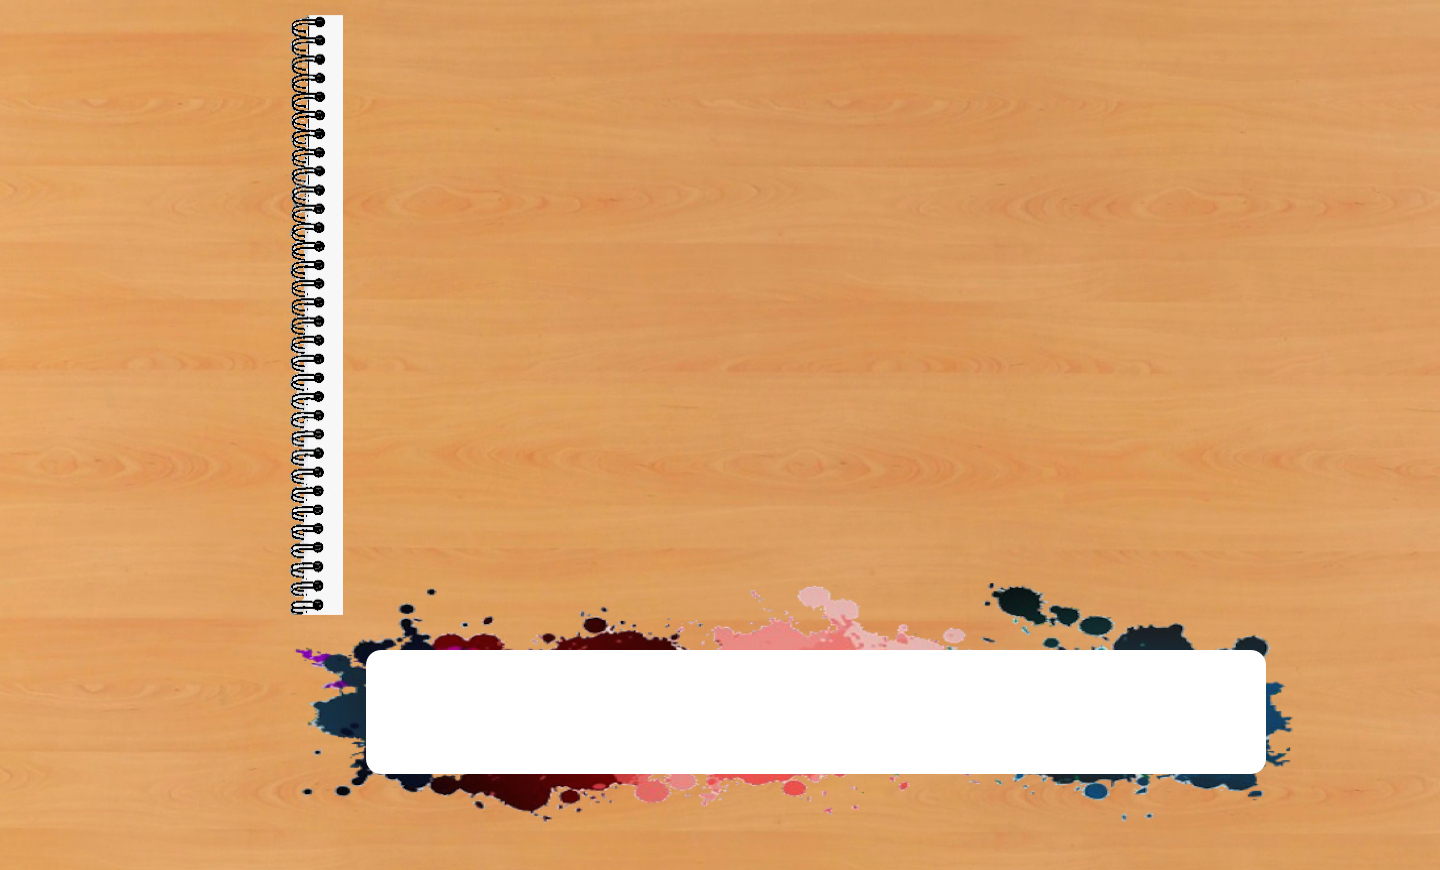
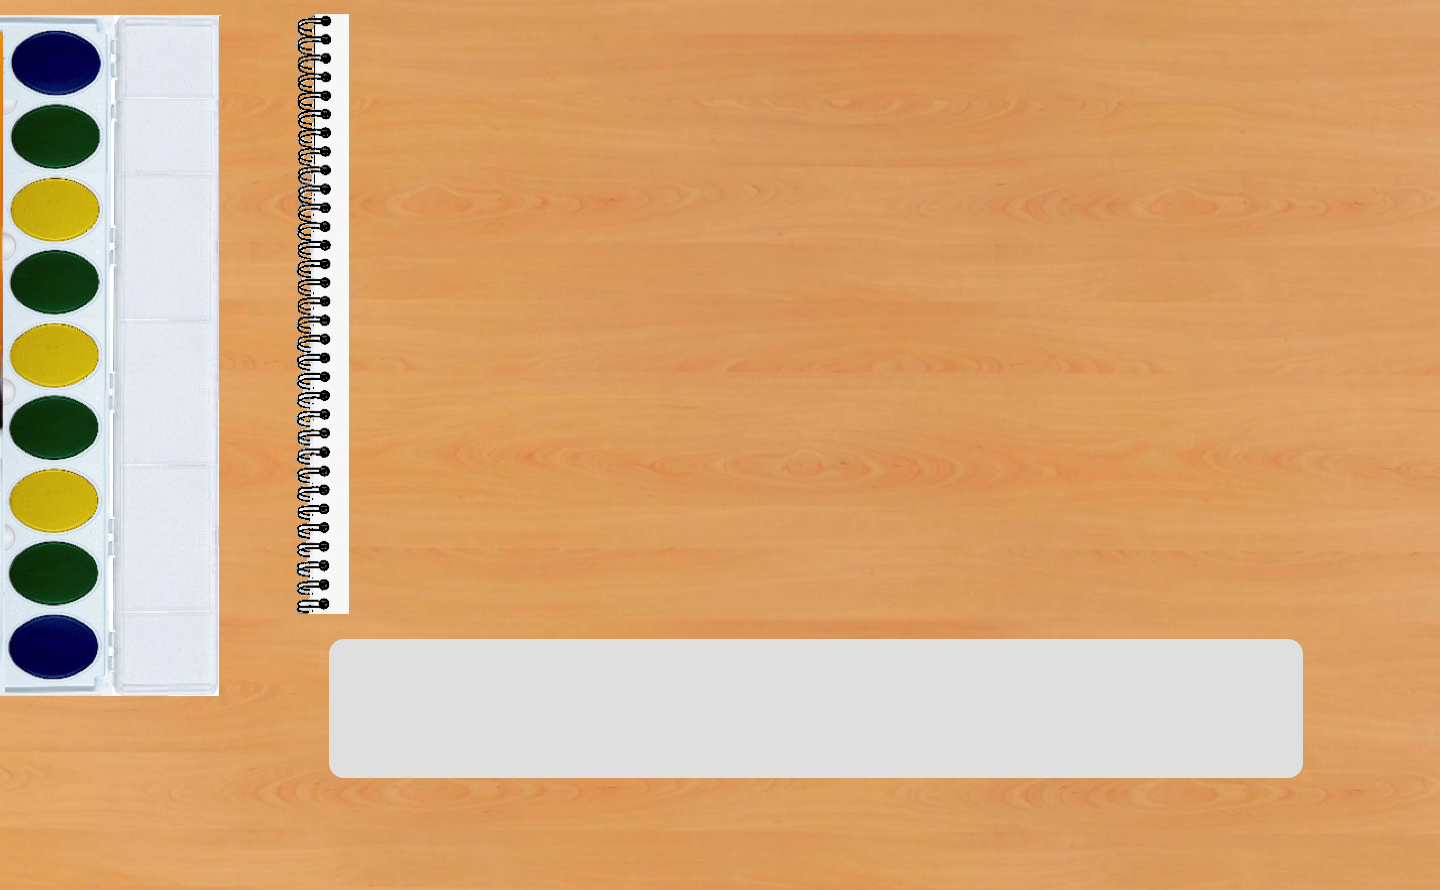
Updates
Added speed buttons.  Still working on position and icons.  Updated
fw/bck btn icons.

Changed region(s): [[0.1875, 0.0, 0.9062, 0.931], [0.0, 0.0, 0.1562, 0.8069]]

diff --git a/Pantimator/src/pantimator/ToolPanel.java b/Pantimator/src/pantimator/ToolPanel.java
@@ -25,7 +25,7 @@ public class ToolPanel extends JPanel {
 		triangle, paint, bucket, stamp, op1;
 	private RoundButton selectedButton;
 	private RoundButton newSelectedButton;
-	private Clip button;
+	private Clip button, sam;
 
 
 	public ToolPanel(Paintimator p, OptionsPanel o) throws IOException, UnsupportedAudioFileException, LineUnavailableException{
@@ -40,13 +40,16 @@ public class ToolPanel extends JPanel {
 		AudioInputStream ais = AudioSystem.getAudioInputStream(is);
         button = AudioSystem.getClip();
         button.open(ais);
-       
-
+        
+        is = getClass().getResourceAsStream("sounds/sam.wav");
+        ais = AudioSystem.getAudioInputStream(is);
+        sam = AudioSystem.getClip();
+        sam.open(ais);
 
 		//Line
         java.net.URL buttonIcon = ToolPanel.class.getResource("images/whiteLine.png");
 		line = new RoundButton(new ImageIcon(buttonIcon)); 
-		buttonIcon = ToolPanel.class.getResource("images/whiteLine.png");
+		buttonIcon = ToolPanel.class.getResource("images/brownLine.png");
 		line.setSelectedIcon(new ImageIcon(buttonIcon));
 		line.addActionListener(new ActionListener() {
 			@Override
@@ -64,7 +67,7 @@ public class ToolPanel extends JPanel {
 		//Circle
 		buttonIcon = ToolPanel.class.getResource("images/whiteCircle.png");
 		circle = new RoundButton( new ImageIcon(buttonIcon)); 
-		buttonIcon = ToolPanel.class.getResource("images/whiteCircle.png");
+		buttonIcon = ToolPanel.class.getResource("images/yellowCircle.png");
 		circle.setSelectedIcon(new ImageIcon(buttonIcon));
 		circle.addActionListener(new ActionListener() {
 			@Override
@@ -80,7 +83,7 @@ public class ToolPanel extends JPanel {
 		//Square
 		buttonIcon = ToolPanel.class.getResource("images/whiteSquare.png");
 		square = new RoundButton( new ImageIcon(buttonIcon)); 
-		buttonIcon = ToolPanel.class.getResource("images/whiteSquare.png");
+		buttonIcon = ToolPanel.class.getResource("images/greenSquare.png");
 		square.setSelectedIcon(new ImageIcon(buttonIcon));
 		square.addActionListener(new ActionListener() {
 			@Override
@@ -96,7 +99,7 @@ public class ToolPanel extends JPanel {
 		//triangle
 		buttonIcon = ToolPanel.class.getResource("images/whiteTriangle.png");
 		triangle = new RoundButton( new ImageIcon(buttonIcon));  
-		buttonIcon = ToolPanel.class.getResource("images/whiteTriangle.png");
+		buttonIcon = ToolPanel.class.getResource("images/blueTriangle.png");
 		triangle.setSelectedIcon(new ImageIcon(buttonIcon));
 		triangle.addActionListener(new ActionListener() {
 			@Override
@@ -112,7 +115,7 @@ public class ToolPanel extends JPanel {
 		//Draw
 		buttonIcon = ToolPanel.class.getResource("images/whiteDraw.png");
 		draw = new RoundButton( new ImageIcon(buttonIcon));
-		buttonIcon = ToolPanel.class.getResource("images/whiteDraw.png");
+		buttonIcon = ToolPanel.class.getResource("images/greenDraw.png");
 		draw.setSelectedIcon(new ImageIcon(buttonIcon));
 		//draw.setPressedIcon(new ImageIcon(buttonIcon));
 		draw.addActionListener(new ActionListener() {
@@ -131,13 +134,13 @@ public class ToolPanel extends JPanel {
 		//Text
 		buttonIcon = ToolPanel.class.getResource("images/whiteText.png");
 		text = new RoundButton( new ImageIcon(buttonIcon)); 
-		buttonIcon = ToolPanel.class.getResource("images/whiteText.png");
+		buttonIcon = ToolPanel.class.getResource("images/orangeText.png");
 		text.setSelectedIcon(new ImageIcon(buttonIcon));
 		text.addActionListener(new ActionListener() {
 			@Override
 			public void actionPerformed(ActionEvent e) {
-				button.stop();
-				button.start();
+				sam.stop();
+				sam.start();
 				newSelectedButton = text;
 				changeButtonColors();
 				op.setState(OptionsPanel.State.TEXT);
@@ -147,7 +150,7 @@ public class ToolPanel extends JPanel {
 		//erasing
 		buttonIcon = ToolPanel.class.getResource("images/whiteEraser.png");
 		erase = new RoundButton( new ImageIcon(buttonIcon));
-		buttonIcon = ToolPanel.class.getResource("images/whiteEraser.png");
+		buttonIcon = ToolPanel.class.getResource("images/blackEraser.png");
 		erase.setSelectedIcon(new ImageIcon(buttonIcon));
 		//erase.setPressedIcon(new ImageIcon(buttonIcon));
 		erase.addActionListener(new ActionListener() {
@@ -164,7 +167,7 @@ public class ToolPanel extends JPanel {
 		//paint
 		buttonIcon = ToolPanel.class.getResource("images/whitePaint.png");
 		paint = new RoundButton( new ImageIcon(buttonIcon));
-		buttonIcon = ToolPanel.class.getResource("images/whitePaint.png");
+		buttonIcon = ToolPanel.class.getResource("images/bluePaint.png");
 		paint.setSelectedIcon(new ImageIcon(buttonIcon));
 		//paint.setPressedIcon(new ImageIcon(buttonIcon));
 		paint.addActionListener(new ActionListener() {
@@ -183,9 +186,9 @@ public class ToolPanel extends JPanel {
 
 		buttonIcon = ToolPanel.class.getResource("images/whiteBucket.png");
 		bucket = new RoundButton( new ImageIcon(buttonIcon));
-		buttonIcon = ToolPanel.class.getResource("images/whiteBucket.png");
+		buttonIcon = ToolPanel.class.getResource("images/redBucket.png");
 		bucket.setSelectedIcon(new ImageIcon(buttonIcon));
-		//bucket.setPressedIcon(new ImageIcon(buttonIcon));
+		bucket.setPressedIcon(new ImageIcon(buttonIcon));
 		bucket.addActionListener(new ActionListener() {
 			@Override
 			public void actionPerformed(ActionEvent e) {

diff --git a/Pantimator/src/pantimator/AnimationPane.java b/Pantimator/src/pantimator/AnimationPane.java
@@ -70,16 +70,31 @@ public class AnimationPane extends JPanel {
     private void playButton() throws IOException {
 		// TODO Add play button functionality
 
-		java.net.URL imageURL = AnimationPane.class.getResource("images/play.png");
+		java.net.URL imageURL = AnimationPane.class.getResource("images/play100.png");
+		java.net.URL image05URL = AnimationPane.class.getResource("images/05.png");
+		java.net.URL image10URL = AnimationPane.class.getResource("images/10.png");
+		java.net.URL image15URL = AnimationPane.class.getResource("images/15.png");
 		  if (imageURL == null) {
 			 System.out.println("Issue loading play button in Animation Pane"); 
+		  }
+		  
+		  if (image05URL == null) {
+				 System.out.println("Issue loading play button in Animation Pane"); 
+		  }
+		  
+		  if (image10URL == null) {
+				 System.out.println("Issue loading play button in Animation Pane"); 
+		  }
+		  
+		  if (image15URL == null) {
+				 System.out.println("Issue loading play button in Animation Pane"); 
 		  }
 		 //Mark
 		  btnHolder = new JPanel(new GridBagLayout());
 		  btnHolder.setOpaque(false);
 		  
 		  
-		  btn05x = new JButton("0.5x"); 
+		  btn05x = new JButton(new ImageIcon(image05URL)); 
 		  btn05x.setBorder(BorderFactory.createEmptyBorder(1,1,1,1));
 		  btn05x.setBackground(Color.black);
 		  btn05x.addActionListener(new ActionListener(){
@@ -87,7 +102,7 @@ public class AnimationPane extends JPanel {
 				public void actionPerformed(ActionEvent e) {
 				  
 				  btn05x.setBackground(Color.blue);
-				  frameRate = 100;
+				  frameRate = 300;
 				  
 				  if(btn10x != null){
 					  btn10x.setBackground(Color.black);
@@ -99,7 +114,7 @@ public class AnimationPane extends JPanel {
 			  }
 		  });
 		  
-		  btn10x = new JButton("1.0x"); 
+		  btn10x = new JButton(new ImageIcon(image10URL)); 
 		  btn10x.setBorder(BorderFactory.createEmptyBorder(1,1,1,1));
 		  btn10x.setBackground(Color.blue);
 		  btn10x.addActionListener(new ActionListener(){
@@ -119,7 +134,7 @@ public class AnimationPane extends JPanel {
 			  }
 		  });
 		  
-		  btn15x = new JButton("1.5x"); 
+		  btn15x = new JButton(new ImageIcon(image15URL)); 
 		  btn15x.setBorder(BorderFactory.createEmptyBorder(1,1,1,1));
 		  btn15x.setBackground(Color.black);
 		  btn15x.addActionListener(new ActionListener(){
@@ -127,7 +142,7 @@ public class AnimationPane extends JPanel {
 				public void actionPerformed(ActionEvent e) {
 				  
 				  btn15x.setBackground(Color.blue);
-				  frameRate = 300;
+				  frameRate = 100;
 				  
 				  if(btn10x != null){
 					  btn10x.setBackground(Color.black);
@@ -169,27 +184,37 @@ public class AnimationPane extends JPanel {
 		 gbc.gridy = 0;
 		 gbc.gridheight = 1;
 		 gbc.gridwidth = 3;
+		 gbc.anchor = GridBagConstraints.NORTH;
 		 btnHolder.add(play, gbc);
 		 
 		 gbc.gridx = 0;
 		 gbc.gridy = 1;
 		 gbc.gridheight = 1;
 		 gbc.gridwidth = 1;
+		 gbc.anchor = GridBagConstraints.WEST;
 		 btnHolder.add(btn05x, gbc);
-		 
-		 gbc.gridx = 1;
-		 gbc.gridy = 1;
-		 gbc.gridheight = 1;
-		 gbc.gridwidth = 1;
-		 btnHolder.add(btn10x, gbc);
 		 
 		 gbc.gridx = 2;
 		 gbc.gridy = 1;
 		 gbc.gridheight = 1;
 		 gbc.gridwidth = 1;
-		 btnHolder.add(btn15x, gbc);
+		 //gbc.insets = new Insets(0,10,0,10);
+		 gbc.anchor = GridBagConstraints.CENTER;
+		 btnHolder.add(btn10x, gbc);
 		 
+		 gbc.gridx = 4;
+		 gbc.gridy = 1;
+		 gbc.gridheight = 1;
+		 gbc.gridwidth = 1;
+		 gbc.anchor = GridBagConstraints.EAST;
+		 btnHolder.add(btn15x, gbc);
+
+		 
+		 btnHolder.setBorder(BorderFactory.createLineBorder(Color.red));
 		 this.add(btnHolder);
+		 
+		 
+		 
 		 //this.add(play);
         //this.add(btn1x);
         //this.setBackground(Color.blue);

diff --git a/Pantimator/src/pantimator/Paintimator.java b/Pantimator/src/pantimator/Paintimator.java
@@ -51,7 +51,7 @@ public class Paintimator extends JFrame{
 	private int height = 900;
 	private int width = 1440;
 	
-	private boolean debug = true;
+	private boolean debug = false;
 
 	public Paintimator() throws IOException, UnsupportedAudioFileException, LineUnavailableException{
 		super();
@@ -60,7 +60,7 @@ public class Paintimator extends JFrame{
 		this.setTitle(FRAME_TITLE);
 		
 		//create a contentPane that can hold an image
-        contentPane = new BackgroundPanel("images/background.png");
+        contentPane = new BackgroundPanel("images/background2.png");
         contentPane.setLayout(new BorderLayout());
 		
 
@@ -114,7 +114,7 @@ public class Paintimator extends JFrame{
 		optionsPanel.setOpaque(false);
 		cwPanel.setOpaque(false);
 		sidePanel.setOpaque(false);
-		sidePanel.setPreferredSize(new Dimension(300, height));
+		sidePanel.setPreferredSize(new Dimension(220, height));
 
 		//menu bar
 		menu = new MyMenu(this);
@@ -187,7 +187,7 @@ public class Paintimator extends JFrame{
 		this.setResizable(false);
 		refreshDrawPanel(layeredPanelList.getSelected());
 		layeredPanelList.getSelected().clearRootPane();
-		
+		this.updateThumbs();
 	}
 	/*
 	 * Method to easily add/update listeners and canvas
@@ -237,7 +237,8 @@ public class Paintimator extends JFrame{
 	
 	
 	private void createButtons(){
-		java.net.URL buttonIcon = Paintimator.class.getResource("images/BackPage.png");
+		//java.net.URL buttonIcon = Paintimator.class.getResource("images/BackPage.png");
+		java.net.URL buttonIcon = Paintimator.class.getResource("images/bckbtnLg.png");
 		backPage = new JButton(new ImageIcon(buttonIcon));
 		backPage.setToolTipText("Previous Page");
 		backPage.addActionListener(new ActionListener() {
@@ -251,7 +252,8 @@ public class Paintimator extends JFrame{
 				
 			}	
 		});
-		buttonIcon = Paintimator.class.getResource("images/FwPage.png");
+		//buttonIcon = Paintimator.class.getResource("images/FwPage.png");
+		buttonIcon = Paintimator.class.getResource("images/fwbtnLg.png");
 		
 		fwdPage = new JButton(new ImageIcon(buttonIcon));
 		fwdPage.setToolTipText("Next Page");
@@ -414,6 +416,7 @@ public class Paintimator extends JFrame{
 				break;
 		}
 		layeredPanelList.getSelected().clearRootPane();
+		
 	}
 	
 	public void newProj() {

diff --git a/Pantimator/src/pantimator/RoundButton.java b/Pantimator/src/pantimator/RoundButton.java
@@ -35,7 +35,7 @@ class RoundButton extends JButton {
 			return;
 		}
 		setBorder(BorderFactory.createEmptyBorder(1,1,1,1));
-		setBackground(Color.BLACK);
+		setBackground(new Color(0, 0, 0, 0));
 		setContentAreaFilled(false);
 		setFocusPainted(false);
 		setAlignmentY(Component.TOP_ALIGNMENT);
@@ -66,6 +66,7 @@ class RoundButton extends JButton {
 		Graphics2D g2 = (Graphics2D)g;
 		g2.setRenderingHint(RenderingHints.KEY_ANTIALIASING,
 				RenderingHints.VALUE_ANTIALIAS_ON);
+		//g2.setColor(new Color(0, 0, 0, 0));
 		g2.setColor(Color.BLACK);
 		g2.draw(shape);
 		g2.setRenderingHint(RenderingHints.KEY_ANTIALIASING,

diff --git a/Pantimator/src/pantimator/MyMenu.java b/Pantimator/src/pantimator/MyMenu.java
@@ -47,7 +47,7 @@ public class MyMenu extends JMenuBar{
 		
 		
 		JButton jbNewFrame = createButton("images/newFrame32.png", "New Page");
-		JButton jbNewProject = createButton("images/newProject322.png", "New New Notebook");
+		JButton jbNewProject = createButton("images/newProject322.png", "New Notebook");
 		JButton jbSave = createButton("images/save32.png", "Save");
 		JButton jbOpen = createButton("images/open32.png", "Open");
 		JButton jbUndo = createButton("images/arrow_undo.png", "Undo");
